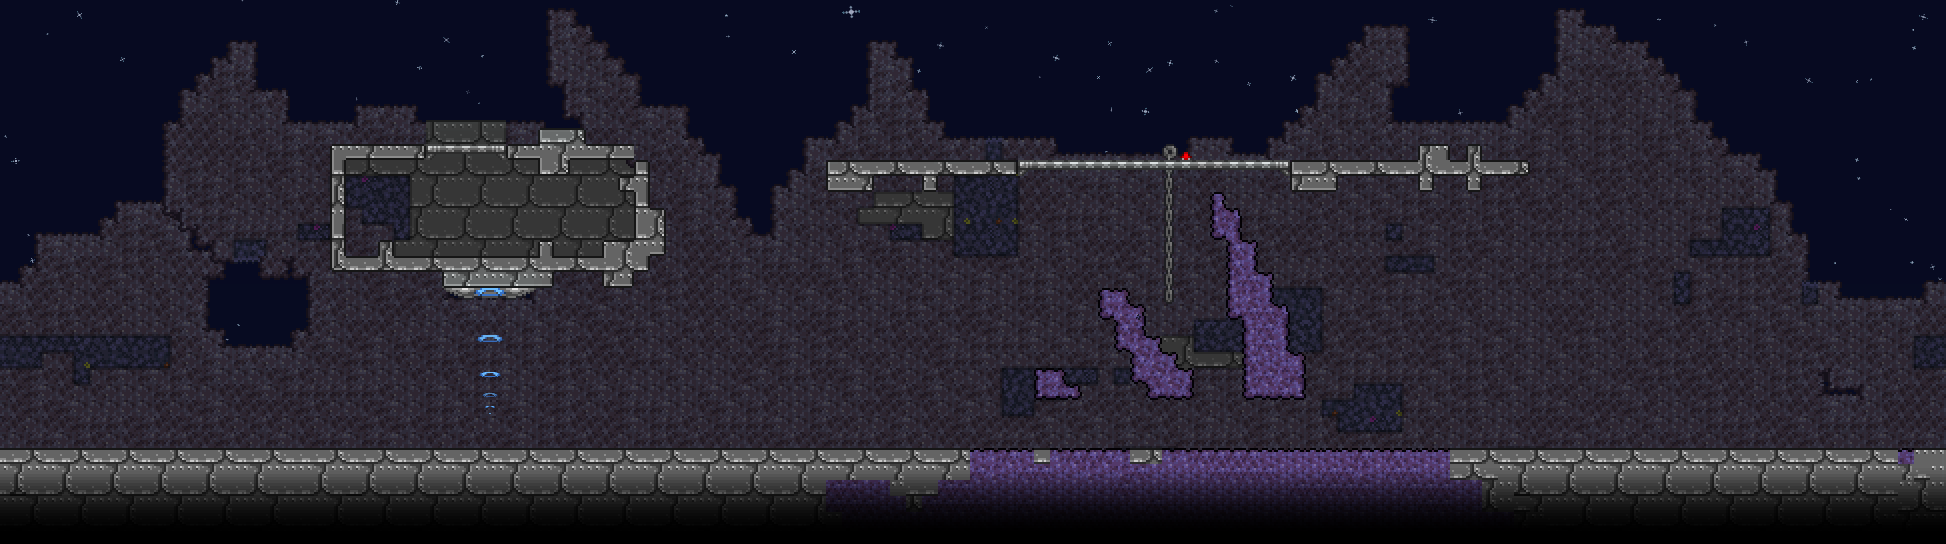
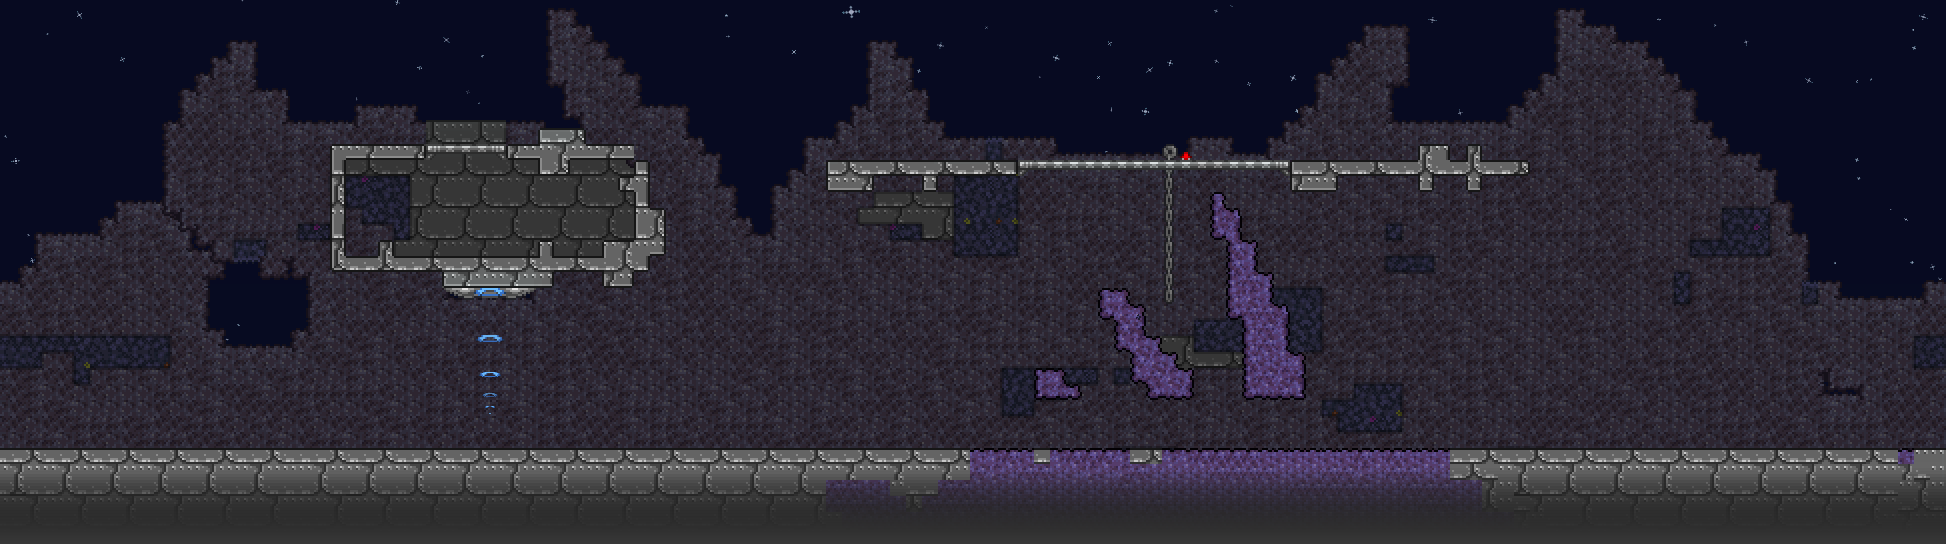
big consistency, non-despawning fixes

Changed region(s): [[0.0, 0.9062, 1.0, 1.0]]

diff --git a/Common/Subworlds/MappingWorld.cs b/Common/Subworlds/MappingWorld.cs
@@ -86,6 +86,7 @@ public abstract class MappingWorld : Subworld
 	public LocalizedText SubworldMining { get; private set; }
 	public LocalizedText SubworldPlacing { get; private set; }
 	public Asset<Texture2D>[] LoadingBackgrounds = [];
+	public Asset<Texture2D> HideGradientTex = null;
 
 	private string _tip = "";
 	private string _fadingInTip = "";
@@ -98,6 +99,7 @@ public abstract class MappingWorld : Subworld
 		SubworldDescription = Language.GetOrRegister("Mods.PathOfTerraria.Subworlds." + GetType().Name + ".Description", () => GetType().Name);
 		SubworldMining = Language.GetOrRegister("Mods.PathOfTerraria.Subworlds." + GetType().Name + ".Mining", () => "\"{$DefaultMining}\"");
 		SubworldPlacing = Language.GetOrRegister("Mods.PathOfTerraria.Subworlds." + GetType().Name + ".Placing", () => "\"{$DefaultPlacing}\"");
+		HideGradientTex = ModContent.Request<Texture2D>("PathOfTerraria/Assets/UI/SubworldLoadScreens/HideGradient");
 
 		// TODO: Change to throw
 		if (ScrollingBackgroundCount == 1 && ModContent.RequestIfExists("PathOfTerraria/Assets/UI/SubworldLoadScreens/" + GetType().Name, out Asset<Texture2D> image))
@@ -325,6 +327,10 @@ public abstract class MappingWorld : Subworld
 				xOff += texture.Width;
 			}
 		}
+
+		Texture2D hide = HideGradientTex.Value;
+		var hideSrc = new Rectangle(0, 0, hide.Width * 300, hide.Height);
+		Main.spriteBatch.Draw(hide, position with { X = 0 }, hideSrc, Color.White, 0f, hide.Size() * new Vector2(0, 1), 1f, SpriteEffects.None, 0);
 	}
 
 	private static void DrawWalkingPlayer()
@@ -341,6 +347,7 @@ public abstract class MappingWorld : Subworld
 
 		int num = (int)(Main.GlobalTimeWrappedHourly / 0.07f) % 14 + 6;
 		plr.bodyFrame.Y = (plr.legFrame.Y = (plr.headFrame.Y = num * 56));
+		plr.wings = 0;
 		plr.WingFrame(wingFlap: false);
 
 		Item item = plr.inventory[plr.selectedItem];

diff --git a/Common/Systems/VanillaModifications/AntiDespawnSystem/ForceNoDespawning.cs b/Common/Systems/VanillaModifications/AntiDespawnSystem/ForceNoDespawning.cs
@@ -49,7 +49,7 @@ internal class ForceNoDespawning : GlobalNPC
 	{
 		if (npc.type == NPCID.BrainofCthulhu)
 		{
-			// Stop BoC from doing player too distant/dead behaviour
+			// Stop BoC from doing player too distant/targets dead behaviour
 			npc.localAI[3] = 0;
 		}
 		else if (npc.type == NPCID.HallowBoss)
@@ -58,6 +58,14 @@ internal class ForceNoDespawning : GlobalNPC
 			{
 				npc.alpha = 0;
 				npc.ai[1] = 20;
+			}
+		}
+		else if (npc.type == NPCID.SkeletronHead)
+		{
+			if (npc.ai[1] > 1) // Stops Skeletron from entering too distant/targets dead behaviour & forces it closer
+			{
+				npc.ai[1] = 0;
+				npc.velocity = npc.DirectionTo(Main.player[npc.target].Center) * 8;
 			}
 		}
 

diff --git a/Content/Tiles/BossDomain/Seeflower.cs b/Content/Tiles/BossDomain/Seeflower.cs
@@ -81,9 +81,16 @@ public class SeeflowerSystem : ModSystem
 	{
 		if (SubworldSystem.Current is PlanteraDomain)
 		{
+			Vector2 bulbInWorld = PlanteraDomain.BulbPosition.ToWorldCoordinates();
+
+			if (NPC.AnyNPCs(NPCID.Plantera))
+			{
+				bulbInWorld = Main.npc[NPC.FindFirstNPC(NPCID.Plantera)].Center;
+			}
+
 			foreach (Point16 point in Seeflower.AngleByPosition.Keys)
 			{
-				float targetAngle = point.ToWorldCoordinates().AngleTo(PlanteraDomain.BulbPosition.ToWorldCoordinates()) - 0.6f;
+				float targetAngle = point.ToWorldCoordinates().AngleTo(bulbInWorld) - 0.6f;
 				Seeflower.AngleByPosition[point] = Utils.AngleLerp(Seeflower.AngleByPosition[point], targetAngle, 0.03f);
 			}
 		}

diff --git a/Common/Subworlds/BossDomains/Hardmode/MoonDomain/MoonDomainSystem.cs b/Common/Subworlds/BossDomains/Hardmode/MoonDomain/MoonDomainSystem.cs
@@ -56,11 +56,7 @@ internal class MoonDomainSystem : ModSystem
 		}
 
 		FightState state = FightTracker.UpdateState();
-
-		if (assumeBossSpawned && !NPC.AnyNPCs(NPCID.MoonLordCore))
-		{
-			EffectStrength = MathHelper.Lerp(EffectStrength, 0, 0.05f);
-		}
+		EffectStrength = MathHelper.Lerp(EffectStrength, assumeBossSpawned && !NPC.AnyNPCs(NPCID.MoonLordCore) ? 1 : 0, 0.05f);
 
 		bool allPlayersAtop = true;
 

diff --git a/Common/Subworlds/BossDomains/Hardmode/QueenSlimeDomain.cs b/Common/Subworlds/BossDomains/Hardmode/QueenSlimeDomain.cs
@@ -417,13 +417,13 @@ internal class QueenSlimeDomain : BossDomainSubworld
 
 			foreach (Player player in Main.ActivePlayers)
 			{
-				if (player.DistanceSQ(ArenaPos.ToWorldCoordinates()) > 1300 * 1300)
+				if (player.DistanceSQ(ArenaPos.ToWorldCoordinates()) > 1000 * 1000)
 				{
 					canSpawnBoss = false;
 					break;
 				}
 			}
-
+			
 			if (canSpawnBoss)
 			{
 				Main.spawnTileX = ArenaPos.X;

diff --git a/Content/NPCs/BossDomain/EoLDomain/SpawnSymbols.cs b/Content/NPCs/BossDomain/EoLDomain/SpawnSymbols.cs
@@ -24,6 +24,7 @@ internal class SpawnSymbols : ModProjectile
 		Projectile.timeLeft = 240;
 		Projectile.Opacity = 0f;
 		Projectile.scale = 1f;
+		Projectile.netImportant = true;
 	}
 
 	public override void AI()
